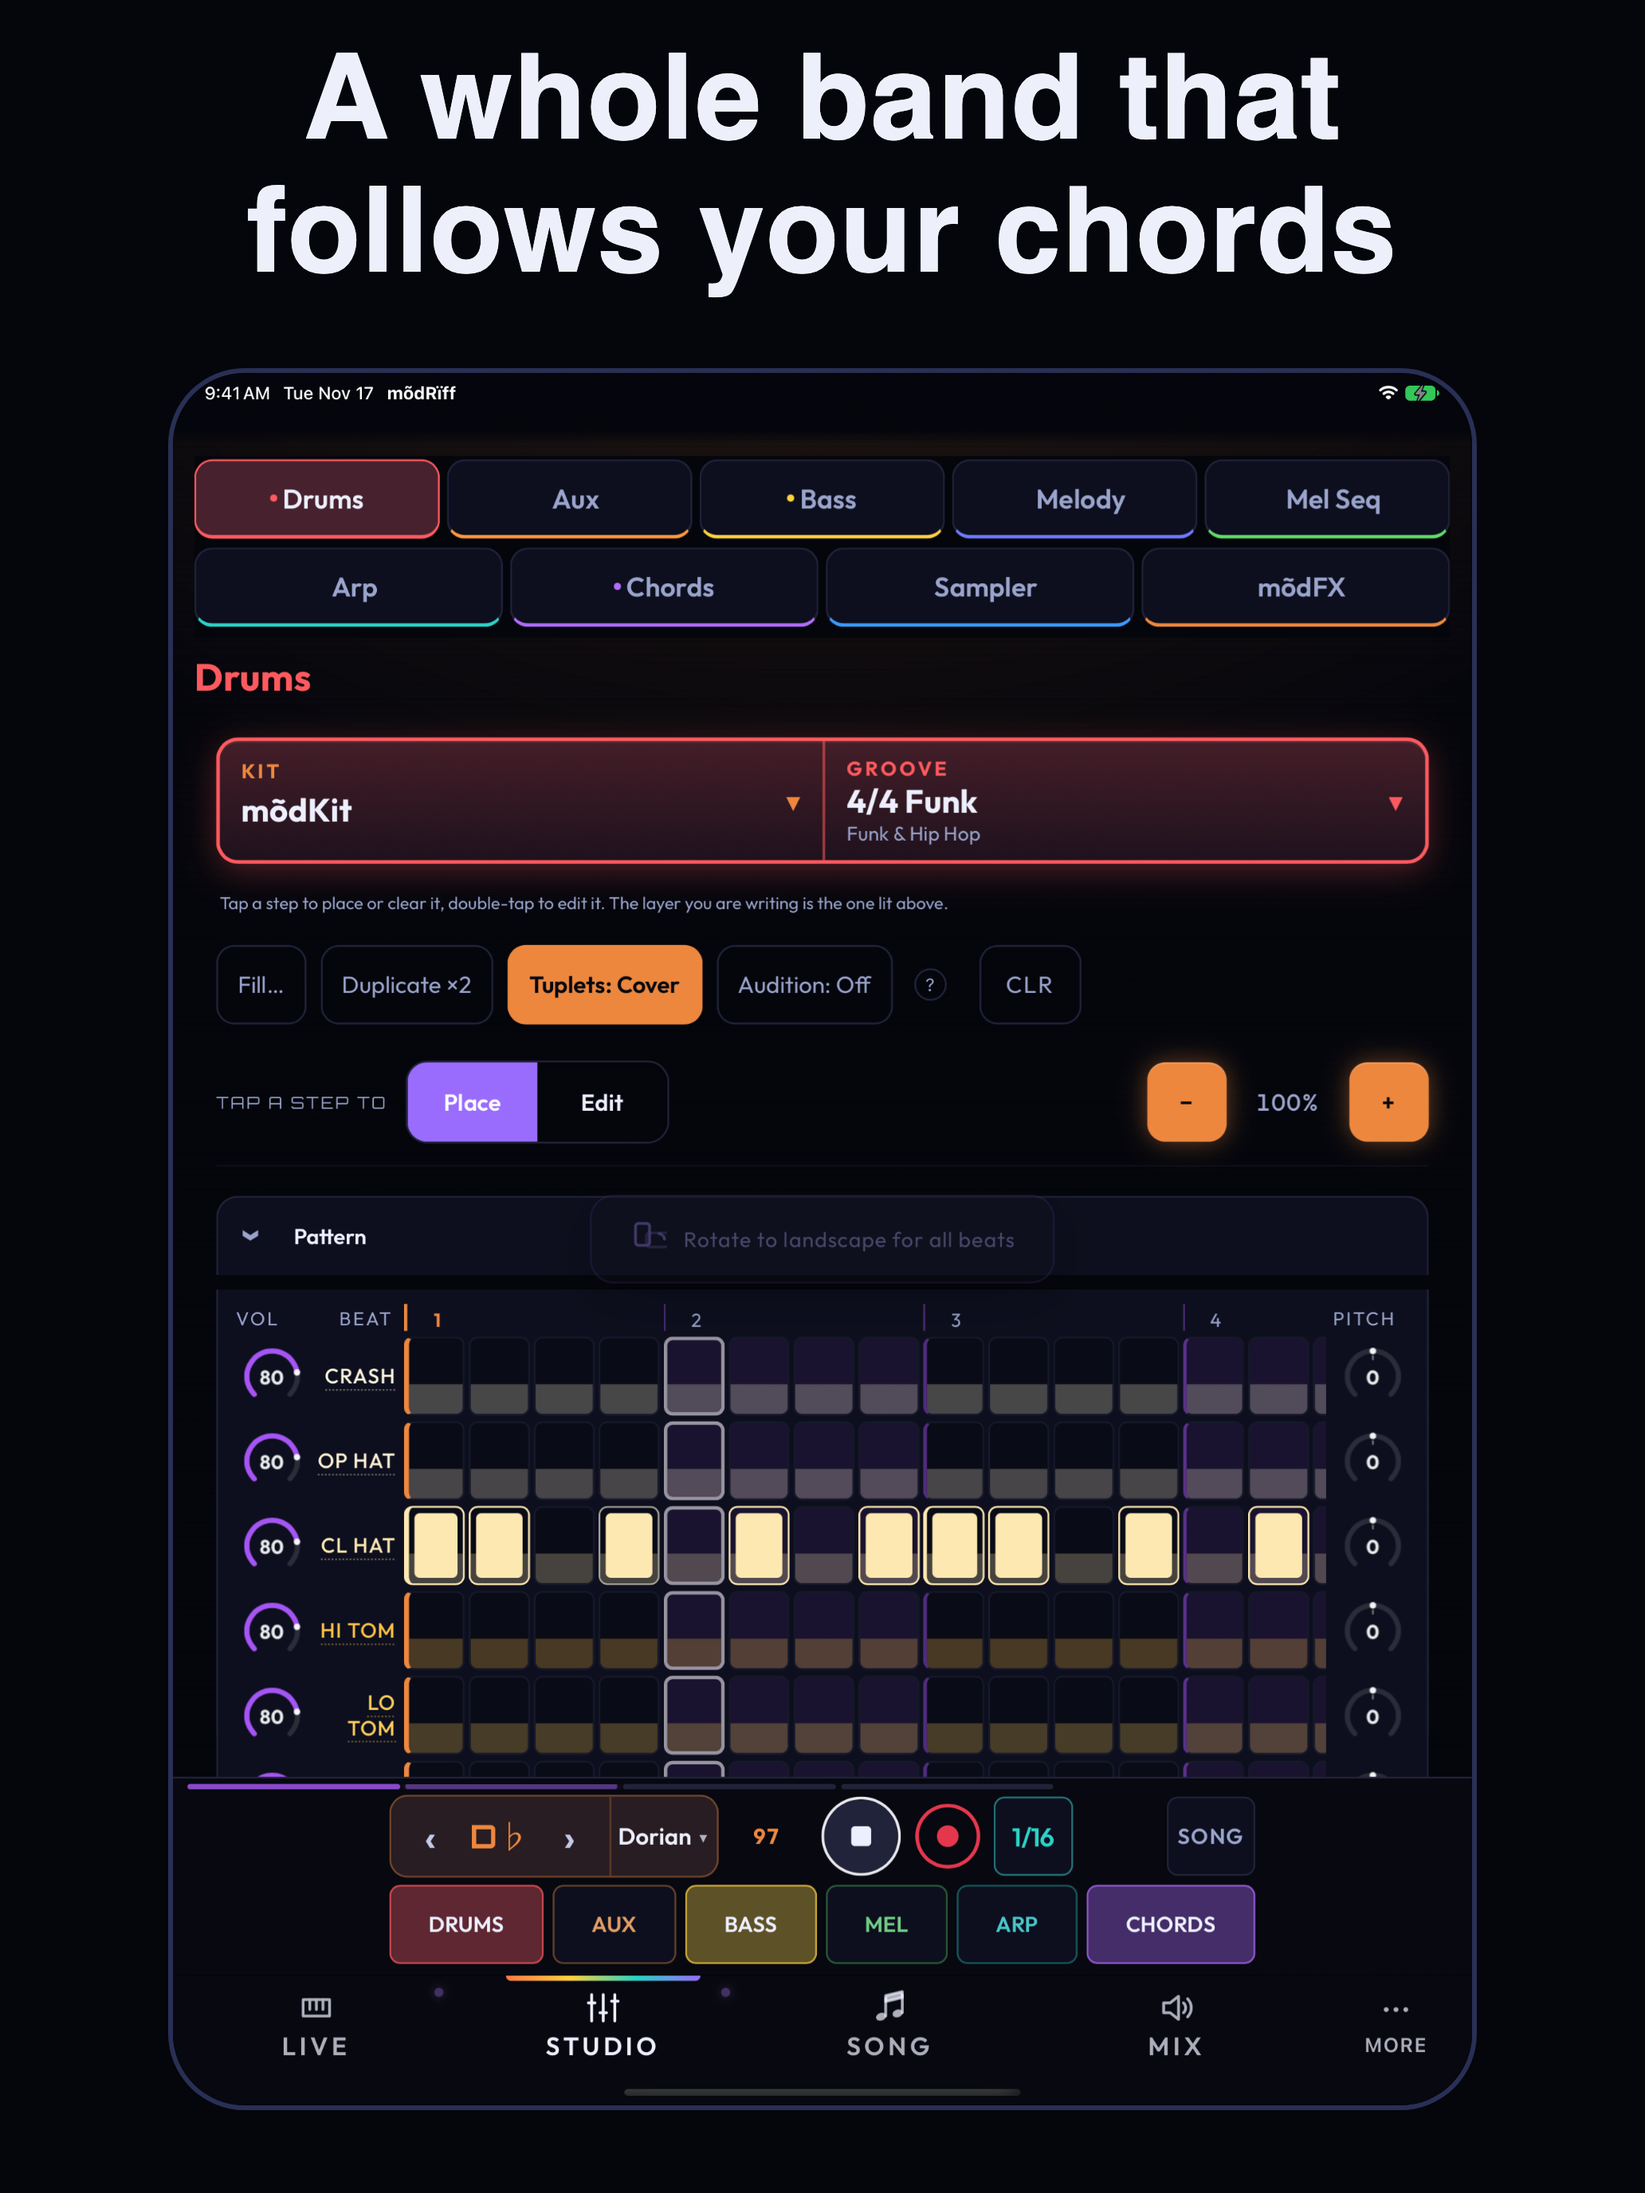
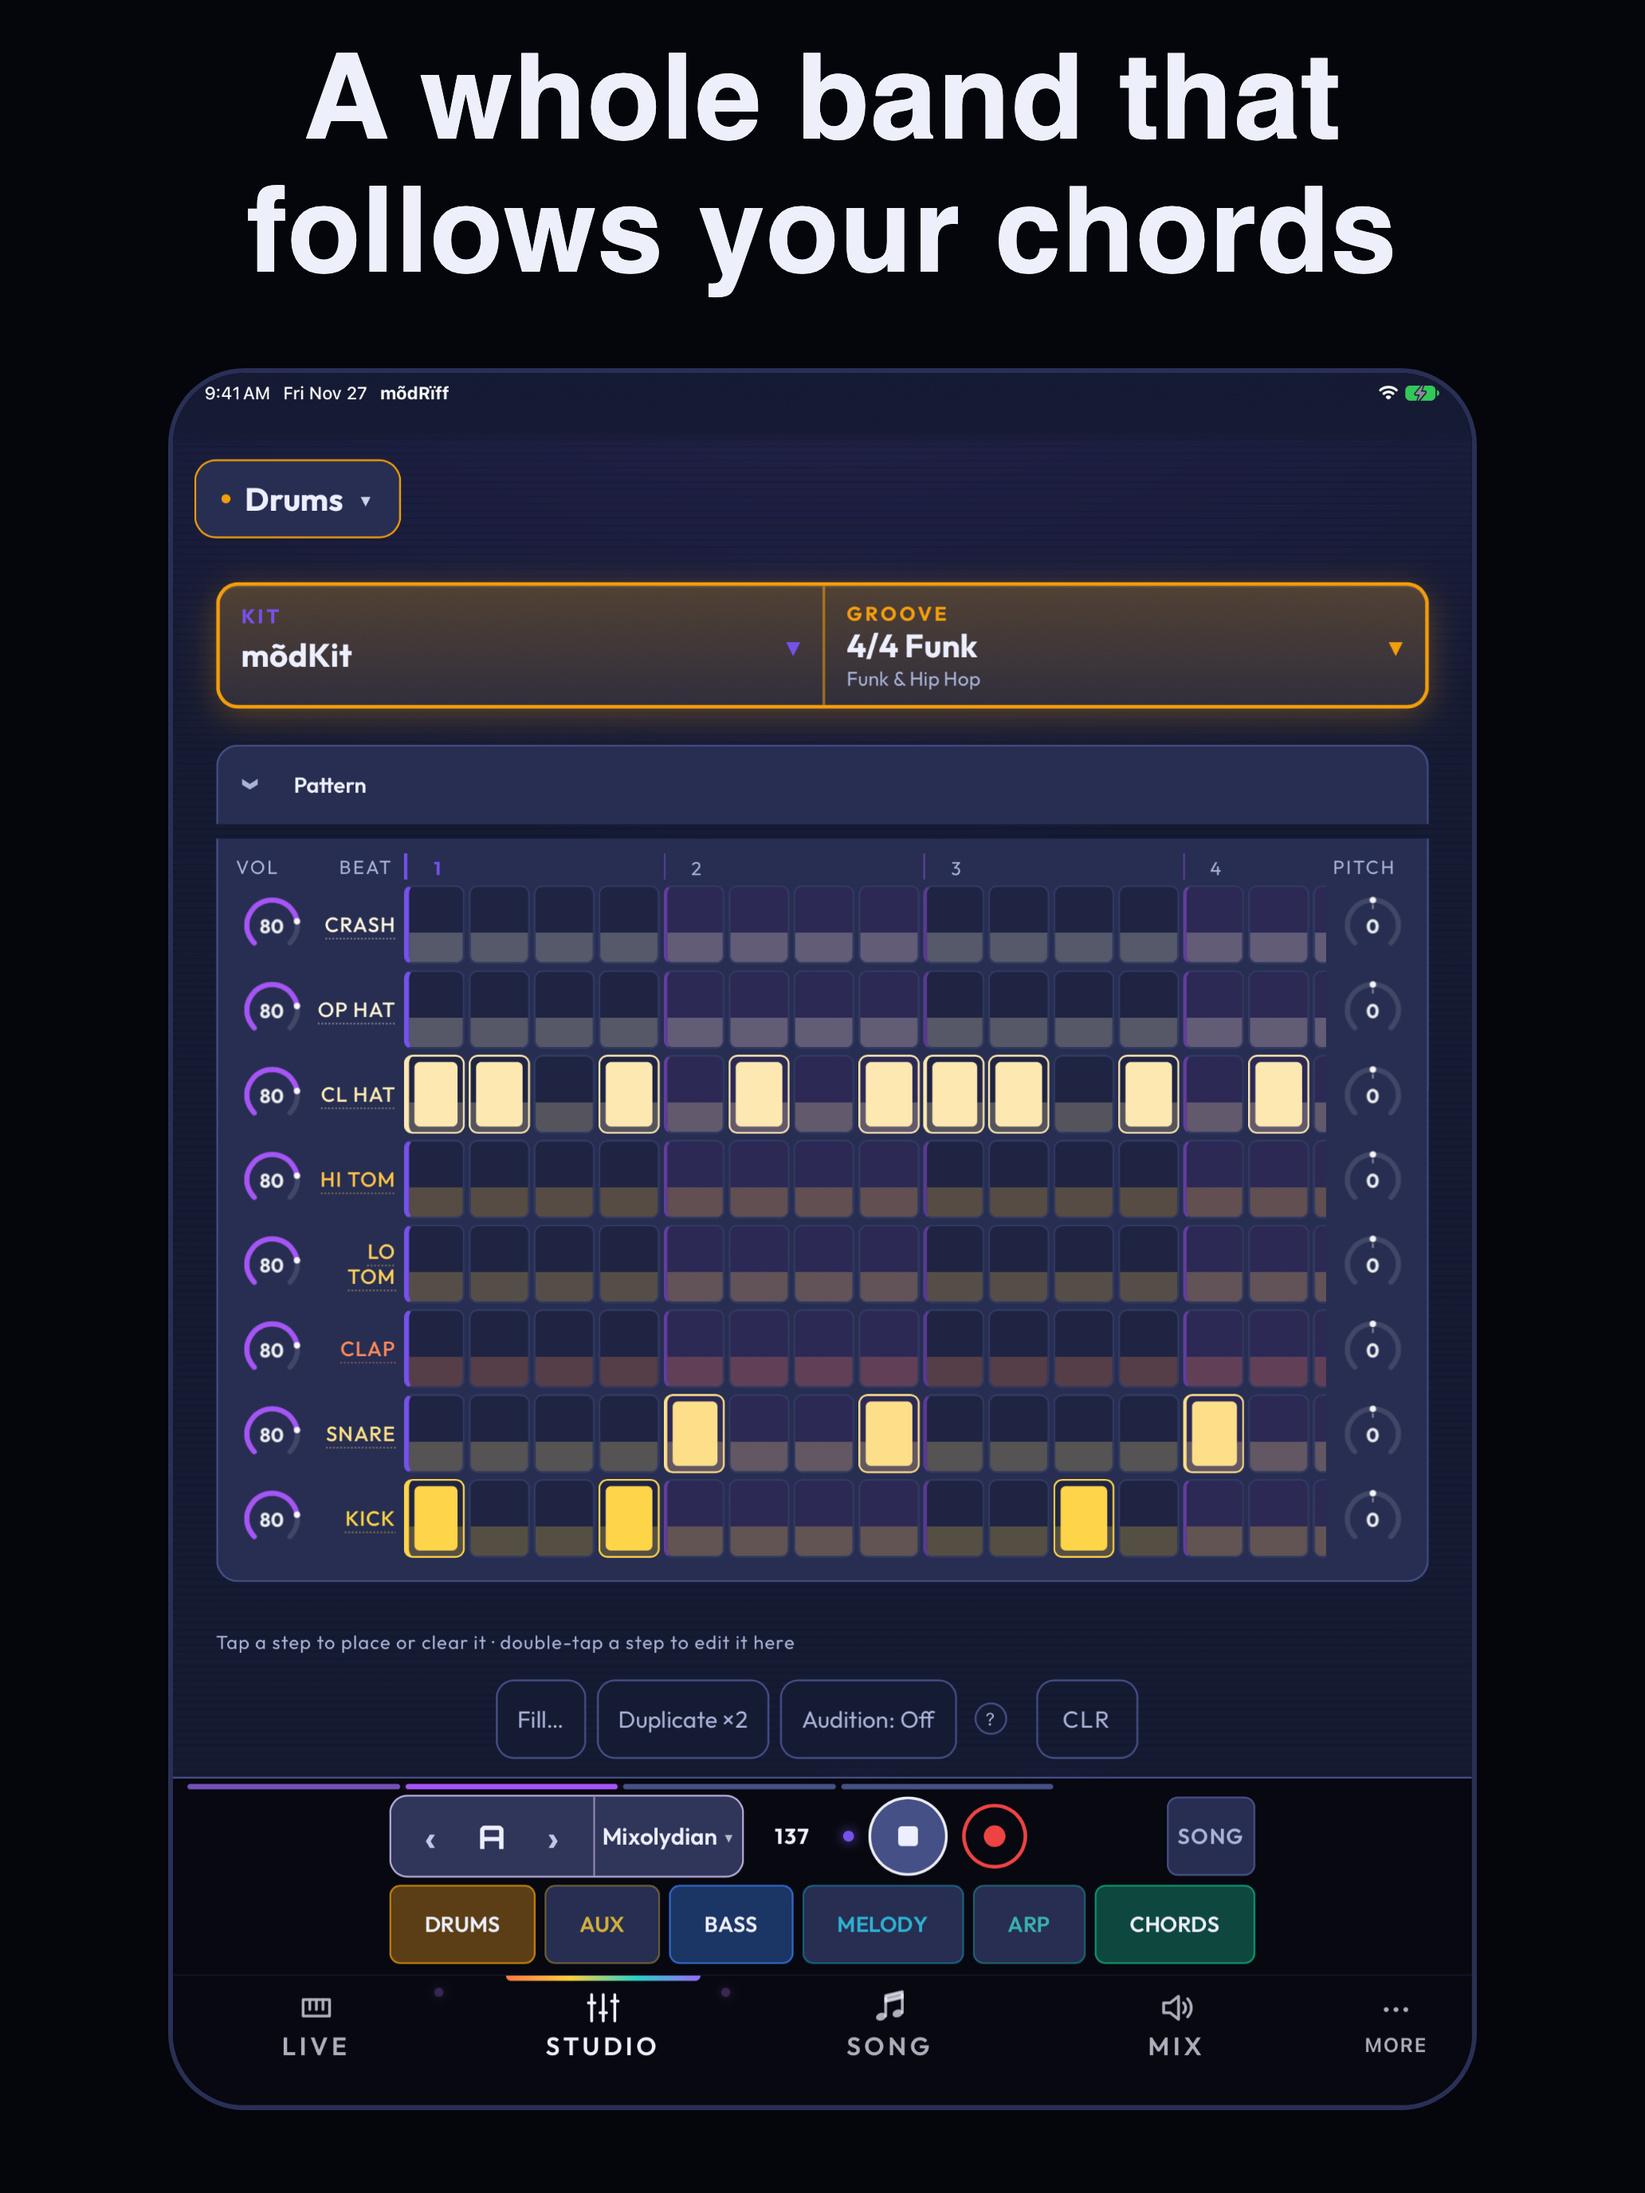
Refresh the v2.4 Studio listing stills
Codex-Session: https://claude.ai/code/session_01a21eb6-9818-7411-b5da-d0631bbee7ea

diff --git a/docs/app-store.md b/docs/app-store.md
@@ -260,7 +260,7 @@ listing subtitle, “Make Music Without Limits.”
 
 The upload set is `docs/app-store/screenshots/v7.1-captioned/` (the `iphone-6.9in-` and `ipad-13in-` files: 1320 x 2868 and
 2064 x 2752, opaque; five shots each, in this order: Live, Studio, mõdSynth, Song, Stage, each with a caption over a framed screenshot).
-The Studio shot was refreshed from 1.9.4c on both devices: the larger two-row selector includes Aux and the duplicate Kit/Aux row is gone. The other raw shots were retaken for the layout overhaul from build 1.9.2 in the iOS Simulator (iPhone 18 Pro Max, iPad Pro 13-inch (M5)), status bar
+The Studio shot was refreshed from v2.4 on both devices and shows the current Drums module picker and pattern. The other raw shots were retaken for the layout overhaul from build 1.9.2 in the iOS Simulator (iPhone 18 Pro Max, iPad Pro 13-inch (M5)), status bar
 9:41, every pack open, the app playing a random song. The tabs read Live, Studio, Song, Mix, and the shots show what the overhaul
 made: Live's two rows of four split pads and tall keys, Studio's strip and pick row with a drum groove, the mõdSynth editor with the
 wavetable view, the Song builder and the chord chart. `raw/` holds the plain captures; `build.sh` regenerates the captioned files
